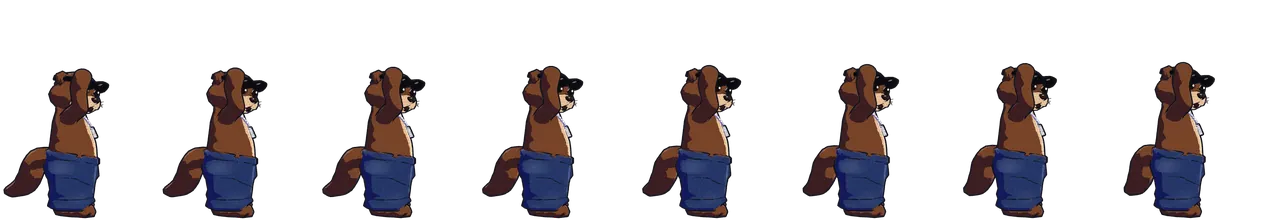
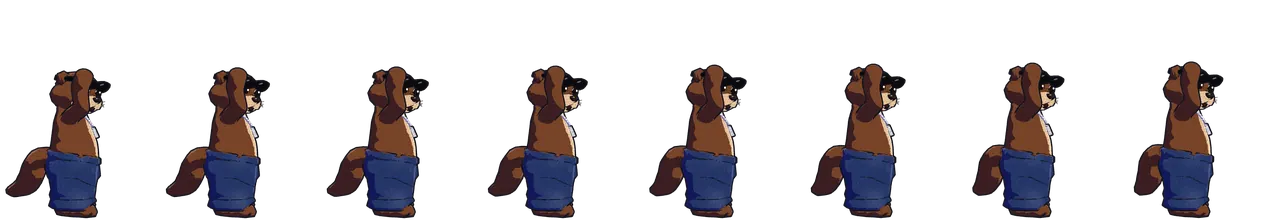
Escape del muro: Swaggy pegado al piso y carrera de 12 cuadros que acelera con el juego
Claude-Session: https://claude.ai/code/session_013ynmKTYERfCmJQKP2pb1Nx

diff --git a/js/components/swaggy/games/runner.js b/js/components/swaggy/games/runner.js
@@ -332,10 +332,13 @@ export function startRunnerGame(canvas, { onScore, onLives, onEnd, music } = {})
     if (hit) img = poseFrame('golpe_lado', now / 1000, 10);
     else if (spinning) img = frames('recoger')[0];
     else if (!onGround) img = frames(player.vy < 0 ? 'saltar' : 'caer')[0];
-    else img = frames('correr')[Math.floor(player.step / (Math.PI / 2)) % 4];
+    else {
+      const run = frames('correr');
+      img = run[Math.floor(player.step / ((Math.PI * 2) / run.length)) % run.length];
+    }
     if (!img.complete) return;
-    const bob = onGround ? Math.abs(Math.sin(player.step)) * player.h * 0.06 : 0;
-    const tilt = onGround ? 0.1 + Math.sin(player.step * 2) * 0.04 : Math.max(-0.3, Math.min(0.3, player.vy / (unit() * 8)));
+    const bob = 0; // el galope 3D ya trae su propio rebote
+    const tilt = onGround ? 0.05 + Math.sin(player.step) * 0.02 : Math.max(-0.3, Math.min(0.3, player.vy / (unit() * 8)));
     // sombra
     const shadow = Math.max(0.3, 1 + player.y / (unit() * 0.8));
     ctx.fillStyle = 'rgba(0,0,0,0.5)';
@@ -351,12 +354,13 @@ export function startRunnerGame(canvas, { onScore, onLives, onEnd, music } = {})
       ctx.rotate((-player.spinT / 0.45) * Math.PI * 2);
       ctx.translate(0, player.h / 2);
     }
-    const squash = onGround ? 1 - Math.abs(Math.sin(player.step)) * 0.04 : 1.05;
+    const squash = onGround ? 1 : 1.05;
     ctx.scale(1 / squash, squash);
     // el 3D de lado deja aire arriba (para los saltos): se dibuja un poco más grande
     const ih = player.h * 1.3;
     const iw = ih * aspect(img);
-    ctx.drawImage(img, -iw / 2, -ih, iw, ih);
+    // pegado al piso: el borde de abajo del dibujo (img.foot) queda justo en el suelo
+    ctx.drawImage(img, -iw / 2, -ih * (img.foot || 1), iw, ih);
     ctx.restore();
   };
 
@@ -380,7 +384,10 @@ export function startRunnerGame(canvas, { onScore, onLives, onEnd, music } = {})
       player.vy = 0;
       player.jumps = 0;
     }
-    if (player.y === 0) player.step += dt * v * 0.045;
+    // zancadas por segundo: tranquilo al empezar y más rápido a medida que sube la velocidad
+    const intensity = Math.min(2.6, 1.05 + elapsed * 0.035);
+    const strides = 1.6 + (intensity - 1.05) * 1.3;
+    if (player.y === 0) player.step += dt * Math.PI * 2 * strides;
     player.spinT = (player.spinT ?? 9) + dt;
 
     // mundo

diff --git a/js/components/swaggy/games/poses.js b/js/components/swaggy/games/poses.js
@@ -14,14 +14,14 @@
  * build_game_sheets.py.
  */
 const BASE = 'assets/images/juegos/3d/';
-const VERSION = '2';
+const VERSION = '3';
 const STRIP_FPS = 12;
 
 // cuadros y tamaño de cada tira (igual que manifest.json)
 const ANIMS = {
-  aletear: [2, 158], atrapar: [1, 207], bailar: [4, 207], caer: [1, 158], caminar: [4, 207], celebrar: [10, 207],
-  correr: [4, 158], disimular: [16, 207], golpe: [8, 207], golpe_lado: [8, 158], nervioso: [8, 207], pintar: [12, 207],
-  planear: [4, 158], quieto: [24, 207], recoger: [1, 158], saltar: [1, 158], triste: [12, 207],
+  aletear: [2, 159], atrapar: [1, 207], bailar: [4, 207], caer: [1, 159], caminar: [4, 207], celebrar: [10, 207],
+  correr: [12, 159], disimular: [16, 207], golpe: [8, 207], golpe_lado: [8, 159], nervioso: [8, 207], pintar: [12, 207],
+  planear: [4, 159], quieto: [24, 207], recoger: [1, 159], saltar: [1, 159], triste: [12, 207],
   // guardia y perro de "Esquiva al guardia"
   guardia_espalda: [12, 234], guardia_grita: [8, 234], guardia_mira: [8, 234], guardia_sospecha: [8, 234], guardia_voltea: [6, 234], perro_alerta: [6, 247], perro_duerme: [12, 247], perro_ladra: [8, 247],
 };
@@ -44,7 +44,20 @@ function loadStrip(name) {
   img.decoding = 'async';
   img.onload = () => {
     list.forEach((c, i) => {
-      c.getContext('2d').drawImage(img, i * w, 0, w, FRAME_H, 0, 0, w, FRAME_H);
+      const cx = c.getContext('2d', { willReadFrequently: true });
+      cx.drawImage(img, i * w, 0, w, FRAME_H, 0, 0, w, FRAME_H);
+      // .foot = dónde termina el dibujo por abajo (0..1), para pegarlo al piso
+      c.foot = 1;
+      try {
+        const a = cx.getImageData(0, 0, w, FRAME_H).data;
+        let y = FRAME_H - 1;
+        for (; y > 0; y--) {
+          let hit = false;
+          for (let x = 0; x < w; x++) if (a[(y * w + x) * 4 + 3] > 110) { hit = true; break; }
+          if (hit) break;
+        }
+        c.foot = (y + 1) / FRAME_H;
+      } catch (e) { /* sin acceso a los píxeles: se queda en 1 */ }
       c.complete = true;
     });
   };

diff --git a/index.html b/index.html
@@ -70,9 +70,9 @@
       "./js/components/swaggy/games/kit.js": "./js/components/swaggy/games/kit.js?v=6679c864",
       "./js/components/swaggy/games/music.js": "./js/components/swaggy/games/music.js?v=1470790a",
       "./js/components/swaggy/games/pixel.js": "./js/components/swaggy/games/pixel.js?v=1b9110f3",
-      "./js/components/swaggy/games/poses.js": "./js/components/swaggy/games/poses.js?v=a52fea7d",
+      "./js/components/swaggy/games/poses.js": "./js/components/swaggy/games/poses.js?v=4d7d61e7",
       "./js/components/swaggy/games/rhythm.js": "./js/components/swaggy/games/rhythm.js?v=93329307",
-      "./js/components/swaggy/games/runner.js": "./js/components/swaggy/games/runner.js?v=65ad9a37",
+      "./js/components/swaggy/games/runner.js": "./js/components/swaggy/games/runner.js?v=297c3a11",
       "./js/components/swaggy/games/scenes.js": "./js/components/swaggy/games/scenes.js?v=ce5f546f",
       "./js/components/swaggy/games/stack.js": "./js/components/swaggy/games/stack.js?v=33dbffe2",
       "./js/components/swaggy/games/tap-drop.js": "./js/components/swaggy/games/tap-drop.js?v=e552210c",

diff --git a/tools/swaggy3d/capture_games.py b/tools/swaggy3d/capture_games.py
@@ -24,7 +24,7 @@ PLAN = [
     ('pintar', 'front', BACK, "S.place('spray','hand'); S.play('spray', 0, {silent:true})", 0.6, EVEN(12, 1 / 12)),
     ('aletear', 'side', Q34, "S.play('tantrum', 0, {silent:true})", 0.25, [0, 0.105]),
     ('planear', 'side', Q34, "S.play('startle', 0, {silent:true})", 0.35, EVEN(4, 1 / 12)),
-    ('correr', 'side', SIDE, 'run', 1.4, 'phase4'),
+    ('correr', 'side', SIDE, 'run', 1.4, 'phase12'),
     ('saltar', 'side', SIDE, 'jump', 0.12, EVEN(1, 0.1)),
     ('caer', 'side', SIDE, 'jump', 0.62, EVEN(1, 0.1)),
     ('recoger', 'side', SIDE, "S.play('scared', 0, {silent:true})", 0.5, EVEN(1, 0.1)),
@@ -72,14 +72,14 @@ async def main():
               const adv = (dt) => { const n = Math.max(1, Math.round(dt / (1/60))); for (let i = 0; i < n; i++) { tickKeep(); step(dt/n); } t += dt; };
               adv(skip);
               let ts = times;
-              if (times === 'phase4' || times === 'beat4') {
+              if (times === 'phase4' || times === 'phase12' || times === 'beat4') {
                 // 4 cuadros repartidos en un ciclo
                 const out = [];
                 if (times === 'beat4') { for (let k = 0; k < 4; k++) { if (k) adv(0.785/4); out.push(S.renderer.domElement.toDataURL('image/png')); } return out; }
-                const p0 = S.phase; let k = 0;
-                while (k < 4) {
-                  adv(1/120);
-                  if (S.phase - p0 >= k * Math.PI / 2) { out.push(S.renderer.domElement.toDataURL('image/png')); k++; }
+                const p0 = S.phase; let k = 0; const N = times === 'phase12' ? 12 : 4;
+                while (k < N) {
+                  adv(1/240);
+                  if (S.phase - p0 >= k * Math.PI * 2 / N) { out.push(S.renderer.domElement.toDataURL('image/png')); k++; }
                 }
                 return out;
               }
